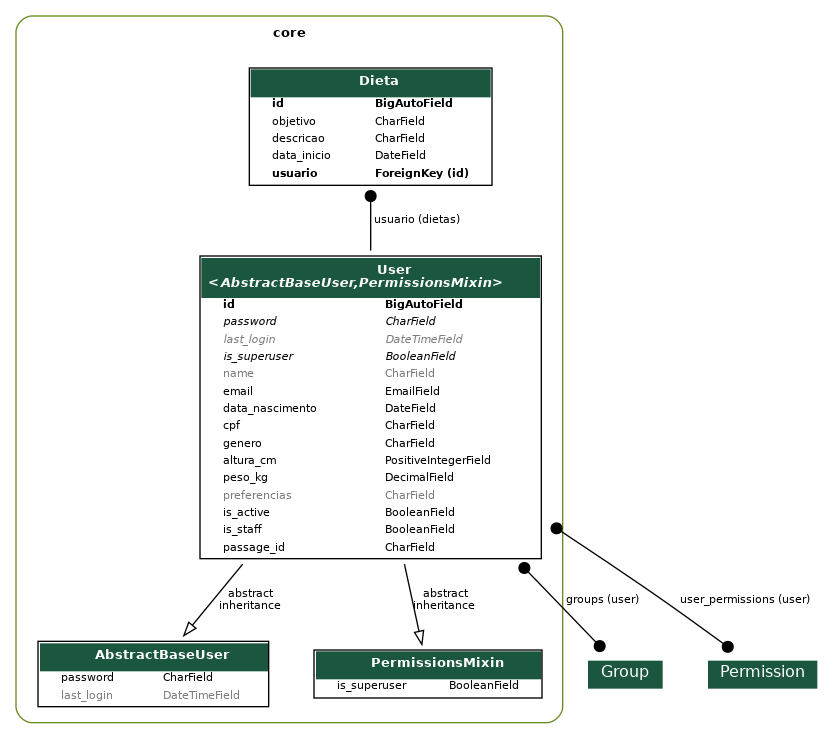
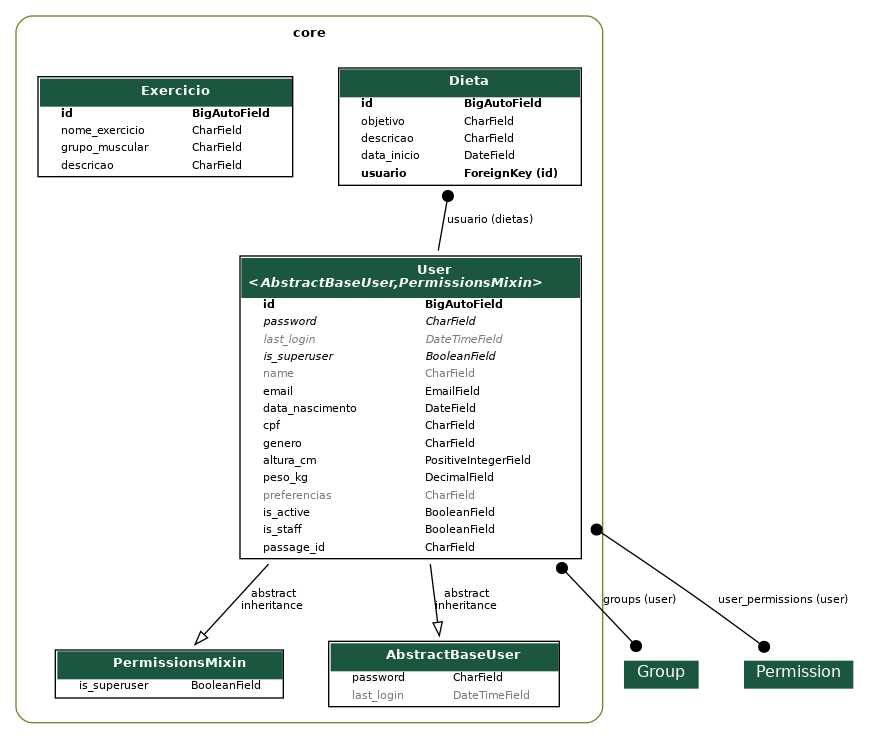
FEAT: api exercicio finalizado

diff --git a/app/urls.py b/app/urls.py
@@ -9,10 +9,12 @@ from rest_framework.routers import DefaultRouter
 
 from core.views import UserViewSet
 from core.views.dieta import DietaViewSet
+from core.views.exercicio import ExercicioViewSet
 
 router = DefaultRouter()
 
 router.register(r'dietas', DietaViewSet, basename='dietas')
+router.register(r'exercicios', ExercicioViewSet, basename='exercicios')
 router.register(r'usuarios', UserViewSet, basename='usuarios')
 
 urlpatterns = [

diff --git a/core/models/exercicio.py b/core/models/exercicio.py
@@ -1,0 +1,10 @@
+from django.db import models
+
+
+class Exercicio(models.Model):
+    nome_exercicio = models.CharField(max_length=100)
+    grupo_muscular = models.CharField(max_length=50)
+    descricao = models.CharField(max_length=100)
+
+    def __str__(self):
+        return self.nome_exercicio

diff --git a/core/views/exercicio.py b/core/views/exercicio.py
@@ -1,0 +1,7 @@
+from rest_framework.viewsets import ModelViewSet
+from core.models import Exercicio
+from core.serializers.exercicio import ExercicioSerializer
+
+class ExercicioViewSet(ModelViewSet):
+    queryset = Exercicio.objects.all()
+    serializer_class = ExercicioSerializer

diff --git a/core/serializers/exercicio.py b/core/serializers/exercicio.py
@@ -1,0 +1,7 @@
+from rest_framework.serializers import ModelSerializer
+from core.models import Exercicio, exercicio
+
+class ExercicioSerializer(ModelSerializer):
+    class Meta:
+        model = Exercicio
+        fields = '__all__'

diff --git a/core/admin.py b/core/admin.py
@@ -53,3 +53,4 @@ class UserAdmin(BaseUserAdmin):
 
 admin.site.register(models.User, UserAdmin)
 admin.site.register(models.Dieta)
+admin.site.register(models.Exercicio)

diff --git a/core/serializers/__init__.py b/core/serializers/__init__.py
@@ -1,2 +1,3 @@
 from .user import UserSerializer
 from .dieta import DietaSerializer
+from .exercicio import ExercicioSerializer

diff --git a/core/views/__init__.py b/core/views/__init__.py
@@ -1,2 +1,3 @@
 from .user import UserViewSet
 from .dieta import DietaViewSet
+from .exercicio import ExercicioViewSet

diff --git a/core/models/__init__.py b/core/models/__init__.py
@@ -1,2 +1,3 @@
 from .user import User
 from .dieta import Dieta
+from .exercicio import Exercicio
